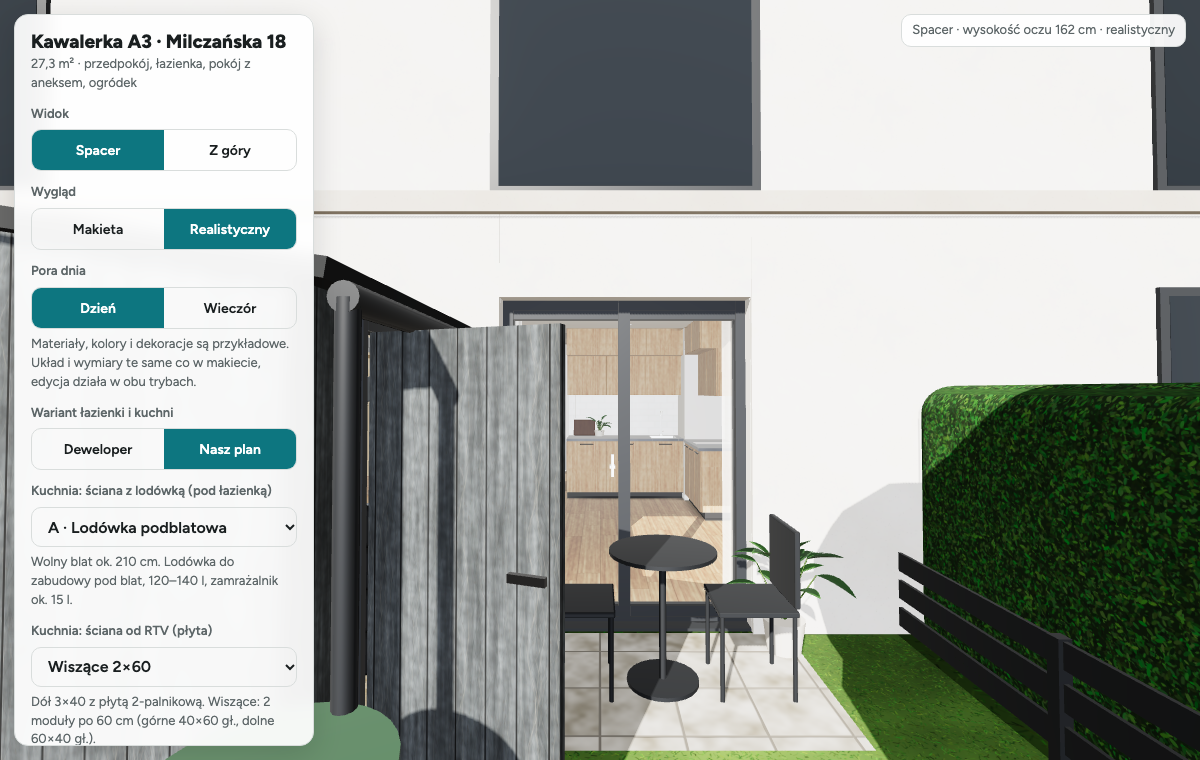
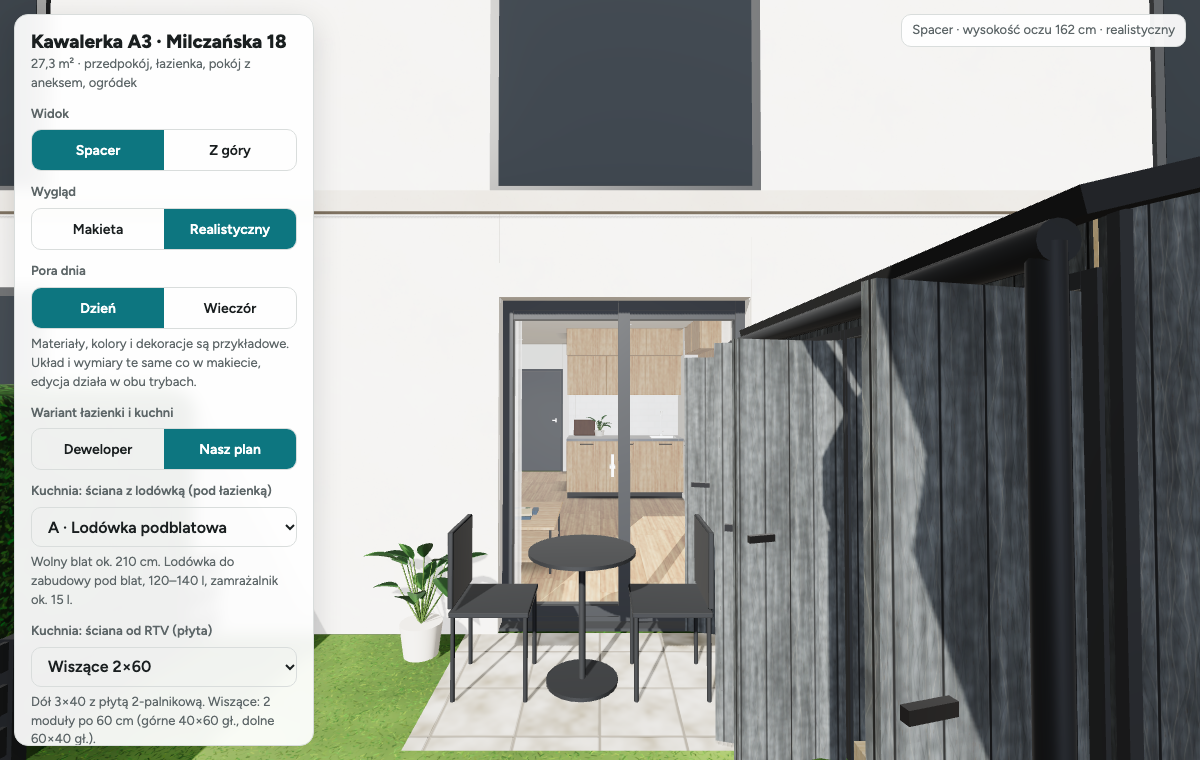
Szopa v.2

diff --git a/index.html b/index.html
@@ -211,15 +211,18 @@ R('nWc','WC podwieszane','wc',2.82,3.22,1.22,1.75,.4,COL.white,'nasz');
 R('nSz','Szafa z pralką (do sufitu)','wardrobe',2,2.62,1.3,1.95,H,COL.oak,'nasz');
 R('nLu','Lustro 60×80','mirror',2.85,3.45,0,.02,.8,0xc9d6dc,'nasz');DEFAULT[DEFAULT.length-1].y=1.1; // nad umywalką, dół 110 cm
 R('nDr','Grzejnik drabinkowy 50×125','ladder',3.59,4.09,0,.05,1.25,0xf4f4f2,'nasz');DEFAULT[DEFAULT.length-1].y=1.15; // 115 cm nad podłogą, 16 cm od prawej ściany
-// ogródek: szopka 160×200 przy płocie sąsiada i elewacji (po prawej po wyjściu na taras), koncepcja 22.11.2026
-// dach jednospadowy: 2,20 przy płocie → 1,95 od strony tarasu (woda na nasz ogródek, rynna + beczka); drzwi 80 od strony tarasu, okienko nad blatem
-// podłoga szopki na podeście 10 cm (y=0,10); wnętrze x −0,04…1,44, z 7,06…8,94
-R('szopa','Szopka ogrodowa 160×200','shed',-.10,1.50,7.00,9.00,2.20,0x6f7a72);RX({fall:.25,door:[.70,1.50],doorH:1.85,win:[.15,.55,1.12,1.48]});
-R('szKola','Koła 4× 225/40 R18 (stos)','tires',.79,1.44,7.06,7.71,.90,0x2b2b2b);RX({y:.10}); // Corolla 18": opona ok. 64×22,5 cm
-R('szBlat','Blat warsztatowy (96 cm nad podłogą szopki)','bench',-.04,1.44,7.06,7.71,1.06,COL.wood); // nad stosem kół, 2 cm luzu
-R('szPolka','Półki nad blatem (2×, gł. 30)','rack',-.04,1.44,7.06,7.36,.37,COL.wood);RX({y:1.5,levels:[1.55,1.85]});
-R('szRegal','Regał na drobiazgi ogrodowe 94×40','rack',.50,1.44,8.54,8.94,1.80,COL.wood);RX({levels:[.16,.55,.95,1.35,1.75],posts:true,face:'-z'});
-R('szNarz','Narzędzia ogrodowe na listwie','tools',-.04,.50,8.64,8.94,1.65,0x7a5a3a);RX({face:'-z'});
+// ogródek: wąska szopka 85×240 przy płocie sąsiada i elewacji, po LEWEJ po wyjściu na taras (zmiana 22.11.2026; wcześniej 160×200 po prawej)
+// między ościeżnicą drzwi tarasowych (x 3,42) a płotem (x 4,40) jest ok. 95 cm. Bez wchodzenia do środka – wszystko dostępne od frontu przez dwie pary drzwi.
+// rot 180: lokalne −x (wysoka ściana, 2,20) = przy płocie, dach spada na nasz ogródek (front 2,00), rynna + beczka od strony ogrodu.
+// pole doors: [z0,z1,'double'] w układzie lokalnym od krawędzi z0 – przy rot 180 liczone od końca szopki od ogrodu (z 9,40)
+// podłoga szopki na podeście 10 cm (y=0,10); wnętrze x 3,56…4,29 (73 cm), z 7,06…9,34
+R('swSzopa','Szopka wąska 85×240','shed',3.50,4.35,7.00,9.40,2.20,0x6f7a72);RX({rot:180,fall:.20,doorH:1.85,doors:[[.08,1.20,'double'],[1.26,2.30,'double']]});
+R('swNarz','Narzędzia ogrodowe na listwie (ściana od budynku)','tools',3.56,4.29,7.06,7.36,1.65,0x7a5a3a);
+R('swPolkaN','Półka nad narzędziami (gł. 24)','rack',3.56,4.29,7.06,7.30,.2,COL.wood);RX({y:1.7,levels:[1.75]});
+R('swRegal','Regał na drobiazgi ogrodowe 70×60','rack',3.67,4.27,7.42,8.12,1.80,COL.wood);RX({levels:[.16,.55,.95,1.35,1.75],posts:true,face:'-x'});
+R('swBlat','Blat warsztatowy 118×73 (96 cm nad podłogą szopki)','bench',3.56,4.29,8.16,9.34,1.06,COL.wood);RX({face:'-x'}); // nad kołami, 2 cm luzu
+R('swKola','Koła 4× 225/40 R18 (stos)','tires',3.60,4.25,8.67,9.32,.90,0x2b2b2b);RX({y:.10}); // Corolla 18": opona ok. 64×22,5 cm
+R('swPolka','Półki nad blatem (2×, gł. 30)','rack',3.99,4.29,8.16,9.34,.37,COL.wood);RX({y:1.5,levels:[1.55,1.85],face:'-x'});
 // wersje kuchni „Nasz plan” – osobno dla każdej ściany (listy rozwijane).
 // Nowa wersja = nowy wpis + meble z polem fr:'<id>' (ściana z lodówką) albo rtv:'<id>' (ściana od RTV)
 const FRIDGE_WALL=[
@@ -247,6 +250,7 @@ try{let s=JSON.parse(localStorage.getItem(KEY));
   // starsze -> v10: „Nasz plan” (łazienka + kuchnia) z DEFAULT, wariant domyślnych mebli z DEFAULT; reszta mebli zostaje na swoich miejscach
   if(s&&s.items)s.items.forEach(it=>{const d=DEFAULT.find(x=>x.id===it.id);if(d)it.v=d.v});
   if(s&&s.items)s.items=s.items.filter(it=>it.v!=='nasz').concat(JSON.parse(JSON.stringify(DEFAULT.filter(d=>d.v==='nasz'))))}
+ if(s&&s.items)s.items=s.items.filter(it=>!/^sz(opa|Kola|Blat|Polka|Regal|Narz)$/.test(it.id)); // pierwsza wersja szopki (160×200 po prawej) – zastąpiona
  if(s&&s.items){DEFAULT.forEach(d=>{if(!s.items.some(i=>i.id===d.id))s.items.push(JSON.parse(JSON.stringify(d)))}); // nowe meble z DEFAULT (np. nowa wersja kuchni)
   if(!FRIDGE_WALL.some(k=>k.id===s.fridge))s.fridge='pod';if(!RTV_WALL.some(k=>k.id===s.rtv))s.rtv='w2x60';state=s}}catch(e){}
 const save=()=>{try{localStorage.setItem(KEY,JSON.stringify(state))}catch(e){}};
@@ -302,7 +306,8 @@ function build(it){
   case'tires':{const n=Math.max(1,Math.round(h/.225)),th=h/n,r=Math.min(w,d)/2-.005,y0=it.y||0; // koła leżące w stosie
    for(let k=0;k<n;k++){const yc=y0+k*th+th/2,t=new THREE.Mesh(new THREE.CylinderGeometry(r,r,th-.01,32),c);t.position.y=yc;g.add(t);
     const rim=new THREE.Mesh(new THREE.CylinderGeometry(.229,.229,th-.004,32),M(0xa3a9ad));rim.position.y=yc;g.add(rim)}}break;
-  case'bench':b(0,w,h-.04,h,0,d);b(0,.05,.1,h-.04,d-.05,d);b(.02,w-.02,h+.03,h+.47,0,.012,M(0xc9b28a));break; // blat + noga od płotu + tablica narzędziowa
+  case'bench':b(0,w,h-.04,h,0,d);if(frontOf(it)==='-x'){b(0,.05,.1,h-.04,0,.05);b(w-.012,w,h+.03,h+.47,.02,d-.02,M(0xc9b28a))}
+   else{b(0,.05,.1,h-.04,d-.05,d);b(.02,w-.02,h+.03,h+.47,0,.012,M(0xc9b28a))}break; // blat + jedna noga z przodu + tablica narzędziowa przy ścianie
   case'rack':{const lv=it.levels||[h];lv.forEach(y=>b(0,w,y-.018,y,0,d));
    if(it.posts){const y1=Math.max(...lv)+.03,yb=lv[0]-.06;[[0,0],[w-.03,0],[0,d-.03],[w-.03,d-.03]].forEach(([x,z])=>b(x,x+.03,yb,y1,z,z+.03,M(COL.grey)))}}break;
   case'tools':{const back=frontOf(it)==='-z',zw=back?d:0,s=back?-1:1,zz=(a,q)=>[Math.min(zw+s*a,zw+s*q),Math.max(zw+s*a,zw+s*q)];
@@ -326,16 +331,19 @@ function itemSolids(){const out=[];state.items.filter(it=>visible(it)&&it.kind!=
  if(it.kind==='shed'){out.push(...shedRects(it));return} // szopka: kolizje tylko ze ścianami, przez drzwi można wejść
  const[fw,fd]=footprint(it);out.push([it.x-fw/2,it.x+fw/2,it.z-fd/2,it.z+fd/2])});return out}
 // ściany szopki jako prostokąty w układzie świata (obrót co 90°)
-function shedRects(it){const w=it.w,d=it.d,t=.06,X0=-w/2,X1=w/2,Z0=-d/2,Z1=d/2,dr=it.door||[d/2-.4,d/2+.4],a=-it.rot*Math.PI/180,c=Math.round(Math.cos(a)),s=Math.round(Math.sin(a));
- return[[X0,X0+t,Z0,Z1],[X0,X1,Z0,Z0+t],[X0,X1,Z1-t,Z1],[X1-t,X1,Z0,Z0+dr[0]],[X1-t,X1,Z0+dr[1],Z1]].map(([x0,x1,z0,z1])=>{
+function shedDoors(it){return it.doors||[(it.door||[it.d/2-.4,it.d/2+.4]).concat('z1')]}
+function shedRects(it){const w=it.w,d=it.d,t=.06,X0=-w/2,X1=w/2,Z0=-d/2,Z1=d/2,a=-it.rot*Math.PI/180,c=Math.round(Math.cos(a)),s=Math.round(Math.sin(a));
+ const fr=[];let zc=Z0;shedDoors(it).slice().sort((p,q)=>p[0]-q[0]).forEach(([p,q])=>{if(Z0+p>zc)fr.push([X1-t,X1,zc,Z0+p]);zc=Z0+q});if(Z1>zc)fr.push([X1-t,X1,zc,Z1]);
+ return[[X0,X0+t,Z0,Z1],[X0,X1,Z0,Z0+t],[X0,X1,Z1-t,Z1]].concat(fr).map(([x0,x1,z0,z1])=>{
   const p=[[x0,z0],[x1,z1]].map(([x,z])=>[it.x+x*c+z*s,it.z-x*s+z*c]);return[Math.min(p[0][0],p[1][0]),Math.max(p[0][0],p[1][0]),Math.min(p[0][1],p[1][1]),Math.max(p[0][1],p[1][1])]})}
 // ---------- szopka ogrodowa (wspólna dla makiety i trybu realistycznego) ----------
 // Lokalnie: −x = ściana przy płocie sąsiada (wysoka, it.h), +x = ściana z drzwiami (niska, it.h−fall); dach spada w stronę +x.
-// Pola: fall (spadek dachu), door [z0,z1] od krawędzi −z, doorH, win [z0,z1,y0,y1] (okienko w ścianie z drzwiami).
+// Pola: fall (spadek dachu), doors [[z0,z1,'double'|'z0'|'z1' (strona zawiasów)],…] od krawędzi −z (albo stare door [z0,z1]), doorH, win [z0,z1,y0,y1].
+// Rynna i beczka przy końcu z0 (lokalnie), okap mały (3 cm) przy z1.
 // Z góry: ściany obniżone (×0,42) i bez dachu, jak w mieszkaniu.
 function buildShed(it,g,m,real){
  const w=it.w,d=it.d,hi=it.h,lo=hi-(it.fall!=null?it.fall:.25),t=.06,X0=-w/2,X1=w/2,Z0=-d/2,Z1=d/2,walk=mode==='walk';
- const dr=it.door||[d/2-.4,d/2+.4],da=Z0+dr[0],db=Z0+dr[1],dh=it.doorH||1.85,wn=it.win,top=x=>hi-(x-X0)*(hi-lo)/w;
+ const DR=shedDoors(it),dh=it.doorH||1.85,wn=it.win,top=x=>hi-(x-X0)*(hi-lo)/w;
  const W=new THREE.Group();W.scale.y=walk?1:.42;g.add(W);
  const add=(geo,mt,x,y,z,p)=>{const o=new THREE.Mesh(geo,mt);o.position.set(x,y,z);o.castShadow=o.receiveShadow=true;p.add(o);return o};
  const bx=(x0,x1,y0,y1,z0,z1,mt,p=W)=>add(boxUV(new THREE.BoxGeometry(x1-x0,y1-y0,z1-z0)),mt,(x0+x1)/2,(y0+y1)/2,(z0+z1)/2,p);
@@ -346,23 +354,24 @@ function buildShed(it,g,m,real){
  const ex=(dep,mt,z0)=>add(boxUV(new THREE.ExtrudeGeometry(sh,{depth:dep,bevelEnabled:false})),mt,0,0,z0,W);
  ex(t-.012,o,Z0);ex(.012,i,Z0+t-.012);ex(.012,i,Z1-t);ex(t-.012,o,Z1-t+.012); // ściany szczytowe (skośna góra), okładzina zewn. + wewn.
  // ściana z drzwiami i okienkiem (wnętrze od −x)
- const fm=[o,i,o,o,o,o],holes=[[da,db,0,dh]];if(wn)holes.push([Z0+wn[0],Z0+wn[1],wn[2],wn[3]]);holes.sort((a,b)=>a[0]-b[0]);
+ const fm=[o,i,o,o,o,o],holes=DR.map(([a,b])=>[Z0+a,Z0+b,0,dh]);if(wn)holes.push([Z0+wn[0],Z0+wn[1],wn[2],wn[3]]);holes.sort((a,b)=>a[0]-b[0]);
  let zc=Z0+t;holes.forEach(([a,b,y0,y1])=>{if(a>zc)bx(X1-t,X1,0,lo,zc,a,fm);if(y0>0)bx(X1-t,X1,0,y0,a,b,fm);bx(X1-t,X1,y1,lo,a,b,fm);zc=b});
  if(Z1-t>zc)bx(X1-t,X1,0,lo,zc,Z1-t,fm);
  if(wn){const a=Z0+wn[0],b=Z0+wn[1];bx(X1-t/2-.004,X1-t/2+.004,wn[2],wn[3],a,b,m.glass).castShadow=false;
   [[a,a+.03],[b-.03,b]].forEach(([p,q])=>bx(X1-t,X1+.008,wn[2],wn[3],p,q,m.trim));[[wn[2],wn[2]+.03],[wn[3]-.03,wn[3]]].forEach(([p,q])=>bx(X1-t,X1+.008,p,q,a,b,m.trim))}
- [[da-.04,da],[db,db+.04]].forEach(([p,q])=>bx(X1,X1+.012,0,dh+.04,p,q,m.trim));bx(X1,X1+.012,dh,dh+.04,da,db,m.trim); // opaska drzwi
- // skrzydło drzwi otwarte na zewnątrz (zawiasy od strony ogrodu, otwiera się do ściany szczytowej)
- const pv=new THREE.Group();pv.position.set(X1+.03,0,db);pv.rotation.y=-110*Math.PI/180;W.add(pv);const dw=db-da;
- bx(-.02,.02,.02,dh-.01,-dw+.005,-.005,m.door,pv);
- if(real){bx(-.022,-.018,.25,dh-.25,-dw+.03,-dw+.05,m.trim,pv);[.02,-.042].forEach(x=>bx(x,x+.022,.98,1.01,-dw+.05,-dw+.19,m.handle,pv))}
+ // drzwi: opaski + skrzydła otwarte na zewnątrz (~105°); 'double' = dwa skrzydła z zawiasami po bokach
+ DR.forEach(([a,b,hg])=>{const da=Z0+a,db=Z0+b;[[da-.04,da],[db,db+.04]].forEach(([p,q])=>bx(X1,X1+.012,0,dh+.04,p,q,m.trim));bx(X1,X1+.012,dh,dh+.04,da,db,m.trim);
+  const leaf=(z,dw,s)=>{const pv=new THREE.Group();pv.position.set(X1+.03,0,z);pv.rotation.y=s*105*Math.PI/180;W.add(pv); // s=+1: zawias przy z0, skrzydło w +z
+   const z0=s>0?.005:-dw+.005,z1=s>0?dw-.005:-.005,zf=s>0?dw:-dw;bx(-.02,.02,.02,dh-.01,z0,z1,m.door,pv);
+   if(real){bx(-.022,-.018,.25,dh-.25,zf-.05*Math.sign(zf),zf-.03*Math.sign(zf),m.trim,pv);[.02,-.042].forEach(x=>bx(x,x+.022,.98,1.01,Math.min(zf-.05*Math.sign(zf),zf-.17*Math.sign(zf)),Math.max(zf-.05*Math.sign(zf),zf-.17*Math.sign(zf)),m.handle,pv))}};
+  if(hg==='double'){leaf(da,(db-da)/2,1);leaf(db,(db-da)/2,-1)}else if(hg==='z0')leaf(da,db-da,1);else leaf(db,db-da,-1)});
  if(real)[[X0,Z0,hi],[X0,Z1,hi],[X1,Z0,lo],[X1,Z1,lo]].forEach(([x,z,hh])=>bx(x-.014,x+.014,0,hh,z-.014,z+.014,m.trim)); // narożniki
- const ovL=.04,ovR=.15,ov0=.03,ov1=.08,xb=X1+ovR,gx=xb+.05;
+ const ovL=.04,ovR=.15,ov0=.08,ov1=.03,xb=X1+ovR,gx=xb+.05;
  if(walk){const rt=.06,a=Math.atan((hi-lo)/w),xa=X0-ovL,xc=(xa+xb)/2,zm=(Z0-ov0+Z1+ov1)/2; // dach (przy płocie 4 cm okapu, od tarasu 15 cm)
   const rf=add(boxUV(new THREE.BoxGeometry((xb-xa)/Math.cos(a),rt,d+ov0+ov1)),m.roof,xc,top(xc)+rt/2/Math.cos(a),zm,g);rf.rotation.z=-a;
   const gy=top(xb)-.05,gt=add(new THREE.CylinderGeometry(.045,.045,d+ov0+ov1,16),m.gutter,gx,gy,zm,g);gt.rotation.x=Math.PI/2; // rynna
-  add(new THREE.CylinderGeometry(.035,.035,gy-.75,12),m.gutter,gx,(gy+.75)/2,Z1+.05,g)} // rura spustowa
- add(new THREE.CylinderGeometry(.28,.26,.75,32),m.barrel,gx-.05,.375,Z1+.3,g); // beczka na deszczówkę
+  add(new THREE.CylinderGeometry(.035,.035,gy-.75,12),m.gutter,gx,(gy+.75)/2,Z0-.05,g)} // rura spustowa
+ add(new THREE.CylinderGeometry(.28,.26,.75,32),m.barrel,gx-.05,.375,Z0-.3,g); // beczka na deszczówkę
 }
 
 // =====================================================================
@@ -704,7 +713,7 @@ function buildReal(it){
    [0,1,2,3,4].forEach(q=>{const x=X0+.68+q*.05;bx(x-.006,x+.006,h+.12,h+.24,zp,zp+.01,MAT.steel);bx(x-.012,x+.012,h+.24,h+.33,zp,zp+.025,matFor([0xb33a2e,0xe0b030,0x2f5f8f][q%3]),.004)});
    bx(X0+.95,X1-.15,h+.15,h+.35,zp,zp+.004,MAT.steel);bx(X1-.15,X1-.1,h+.17,h+.33,zp,zp+.03,wd,.01); // piła
    bx(X0+.12,X0+.32,h,h+.09,Z1-.13,Z1+.02,matFor(0x2f5f8f),.008); // imadło
-   bx(X0+.12,X0+.6,fl,fl+.24,Z0+.1,Z0+.42,matFor(0xb33a2e),.012);bx(X0+.3,X0+.42,fl+.24,fl+.26,Z0+.22,Z0+.3,MAT.blackMetal); // skrzynka narzędziowa
+   bx(X0+.06,X0+.46,fl,fl+.24,Z0+.1,Z0+.42,matFor(0xb33a2e),.012);bx(X0+.2,X0+.32,fl+.24,fl+.26,Z0+.22,Z0+.3,MAT.blackMetal); // skrzynka narzędziowa
    break}
   case'rack':{const lv=(it.levels||[h]).slice(),bm=MAT.shedIn;
    if(it.posts){const y1=Math.max(...lv)+.03,yb=lv[0]-.06;[[X0+.015,Z0+.015],[X1-.015,Z0+.015],[X0+.015,Z1-.015],[X1-.015,Z1-.015]].forEach(([x,z])=>bx(x-.015,x+.015,yb,y1,z-.015,z+.015,MAT.steel))}
@@ -788,11 +797,11 @@ function makeReal(){
   for(let i=0;i<5;i++)mesh(foliage((.55+r()*.35)*s,seed+i),MAT.leaves,x+(r()-.5)*.9*s,(2.1+r()*1.1)*s,z+(r()-.5)*.9*s,base)};
  tree(3.6,11.4,1.1,'t1');const tr=rngOf('las');
  for(let i=0;i<34;i++){const a=tr()*Math.PI*1.25-Math.PI*.12,d=13+tr()*22,x=2.1+Math.cos(a)*d,z=7+Math.sin(a)*d;if(z<7.5)continue;tree(x,z,1.3+tr()*1.4,'f'+i)}
- // stolik i dwa krzesła na tarasie (przesunięte od szopki)
- mesh(new THREE.CylinderGeometry(.3,.3,.02,32),MAT.fence,2.75,.72,7.55,base);mesh(new THREE.CylinderGeometry(.02,.02,.7,10),MAT.fence,2.75,.36,7.55,base);mesh(new THREE.CylinderGeometry(.2,.2,.02,24),MAT.fence,2.75,.01,7.55,base);
- [[2.27,7.55,Math.PI/2],[3.23,7.55,-Math.PI/2]].forEach(([x,z,ry])=>{const c=new THREE.Group();c.position.set(x,0,z);c.rotation.y=ry;base.add(c);
+ // stolik i dwa krzesła na tarasie
+ mesh(new THREE.CylinderGeometry(.3,.3,.02,32),MAT.fence,2.3,.72,7.55,base);mesh(new THREE.CylinderGeometry(.02,.02,.7,10),MAT.fence,2.3,.36,7.55,base);mesh(new THREE.CylinderGeometry(.2,.2,.02,24),MAT.fence,2.3,.01,7.55,base);
+ [[1.82,7.55,Math.PI/2],[2.78,7.55,-Math.PI/2]].forEach(([x,z,ry])=>{const c=new THREE.Group();c.position.set(x,0,z);c.rotation.y=ry;base.add(c);
   mesh(boxUV(RB(.42,.03,.42,.008,1)),MAT.fence,0,.45,0,c);mesh(boxUV(RB(.42,.4,.03,.008,1)),MAT.fence,0,.68,-.2,c);[[-.19,-.19],[.19,-.19],[-.19,.19],[.19,.19]].forEach(([a,b])=>mesh(new THREE.CylinderGeometry(.012,.012,.45,8),MAT.fence,a,.225,b,c))});
- plantInto(base,3.55,0,7.2,.7,rngOf('pot1'),.4);
+ plantInto(base,1.3,0,7.25,.7,rngOf('pot1'),.4);
  // elewacja budynku (3 kondygnacje) z oknami sąsiadów
  const fz=6.95;wbox(-9,1.72,0,9.4,fz,fz+.04,MAT.plaster,upper);wbox(3.42,13,0,9.4,fz,fz+.04,MAT.plaster,upper);wbox(1.72,3.42,GDOOR,9.4,fz,fz+.04,MAT.plaster,upper);
  [2.95,5.9].forEach(y=>wbox(-9,13,y-.14,y,fz+.04,fz+.1,MAT.plaster2,upper));wbox(-9,13,9.2,9.4,fz+.04,fz+.12,MAT.plaster2,upper);

diff --git a/tools/screenshot.py b/tools/screenshot.py
@@ -36,7 +36,7 @@ async def real(pg):
     views = [("real_wejscie", 1.25, .8, 3.1416, -.05), ("real_pokoj", 2.7, 6.3, .25, -.08),
              ("real_kuchnia", 1.4, 4.9, -0.75, -.12), ("real_lazienka", 2.2, .5, -2.45, -.2),
              ("real_lustro", 3.3, 1.35, 0.15, -.1), ("real_ogrod", 2.4, 10.5, 0, .02),
-             ("real_szopka", 2.7, 10.2, .76, -.1), ("real_szopka_blat", 1.2, 8.15, .29, -.3), ("real_szopka_regal", 1.2, 7.95, 2.85, -.25)]
+             ("real_szopka", 1.6, 10.6, -.76, -.1), ("real_szopka_blat", 2.5, 8.75, -1.5708, -.35), ("real_szopka_regal", 2.5, 7.6, -1.5708, -.3)]
     for name, x, z, yaw, pitch in views:
         await pg.evaluate(f"A3.view({x},{z},{yaw},{pitch})")
         await pg.wait_for_timeout(900)
@@ -63,7 +63,7 @@ async def real(pg):
 
 async def mock(pg):
     await pg.screenshot(path=OUT / "spacer.png")
-    await pg.evaluate("A3.view(2.7,10.2,.76,-.1)")
+    await pg.evaluate("A3.view(1.6,10.6,-.76,-.1)")
     await pg.wait_for_timeout(500)
     await pg.screenshot(path=OUT / "szopka.png")
     await pg.evaluate("A3.view(1.25,.8,3.1416,-.05)")

diff --git a/CLAUDE.md b/CLAUDE.md
@@ -98,13 +98,14 @@ na etapie koncepcji, przed decyzjami instalacyjnymi. Interfejs i komentarze po p
 - Przedpokój „Nasz plan”: szafa do sufitu (z 0,62–2,04) + obudowa GK przewodu kominowego w narożniku przy wejściu
   (x 0–0,32, z 0,32–0,62, wymiar przyjęty, do zmierzenia) z płytką szafką 28 cm przed nią. „Deweloper” = szafa 2,40 m.
 
-- Ogródek „szopka” (22.11.2026, koncepcja, v:'all'): 160×200 przy płocie sąsiada i elewacji, po prawej po wyjściu na taras (x −0,10–1,50, z 7,00–9,00).
-  Dach jednospadowy 2,20 przy płocie → 1,95 od tarasu (pole `fall`), okap 4 cm od płotu / 15 cm od tarasu, rynna + rura do beczki na deszczówkę.
-  Drzwi 80×185 w ścianie od tarasu (z 7,70–8,50, pole `door` od krawędzi z0), otwierane na zewnątrz w stronę ogrodu; okienko nad blatem (`win`). Podłoga na podeście 10 cm.
-  Wnętrze: koła 4× 225/40 R18 w stosie (x 0,79–1,44, z 7,06–7,71, wys. 90) pod blatem warsztatowym 1,06 od gruntu (96 od podłogi szopki), tablica narzędziowa, 2 półki 30 cm (1,55 i 1,85);
-  naprzeciw regał 94×40 (5 półek) i narzędzia ogrodowe na listwie. Przejście między blatem a regałem ok. 83 cm. Kolizje szopki = tylko ściany (`shedRects`), można wejść w spacerze.
-  Z góry: ściany ×0,42, bez dachu (`setMode` przebudowuje meble w obu trybach). Stolik z krzesłami na tarasie (tryb realistyczny) przesunięty na x 2,75.
-  Do sprawdzenia przez właścicieli: zgody wspólnoty / regulamin ogródków, MPZP i przepisy o odległości od granicy, prąd do warsztatu.
+- Ogródek „szopka” (22.11.2026, koncepcja, v:'all'): wąska 85×240 przy płocie sąsiada i elewacji, po LEWEJ po wyjściu na taras (x 3,50–4,35, z 7,00–9,40).
+  Pierwsza wersja (160×200 po prawej, id `sz*`) odrzucona – przy wczytaniu usuwana z zapisanego stanu; obecne meble mają id `sw*`.
+  Szopka ma `rot:180`: lokalne −x (wysoka ściana 2,20) stoi przy płocie, dach spada na nasz ogródek (front 2,00, pole `fall`), rynna + beczka od strony ogrodu.
+  Bez wchodzenia do środka: front od strony ogródka z dwoma drzwiami dwuskrzydłowymi (pole `doors` [[z0,z1,'double'|'z0'|'z1']] lokalnie od z0, czyli przy rot 180 od końca od ogrodu):
+  przy budynku (z 7,10–8,14) narzędzia na listwie na ścianie od budynku + półka 1,75 + regał 70×60 z 5 półkami;
+  od ogrodu (z 8,20–9,32) blat warsztatowy 118×73 na 1,06 (96 cm nad podłogą szopki) z tablicą narzędziową i 2 półkami przy płocie (1,55 i 1,85), pod blatem koła 4× 225/40 R18 w stosie (z 8,67–9,32) i skrzynka.
+  Wnętrze 73 cm szerokości (koło Ø64). Podłoga na podeście 10 cm. Kolizje szopki = ściany (`shedRects`). Z góry: ściany ×0,42, bez dachu.
+  Do sprawdzenia przez właścicieli: zgody wspólnoty / regulamin ogródków, MPZP i przepisy o odległości od granicy (2,20 m przy płocie), prąd do warsztatu.
 
 ## Pomysły na dalsze kroki
 - Łóżko vs sofa rozkładana.
